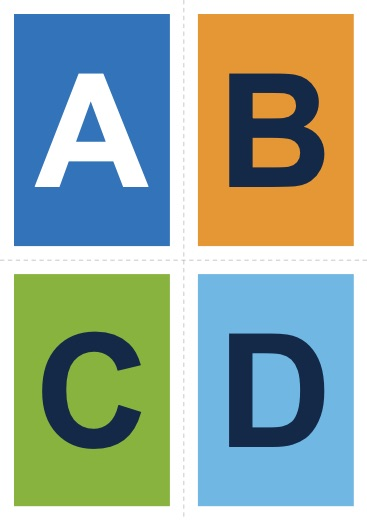
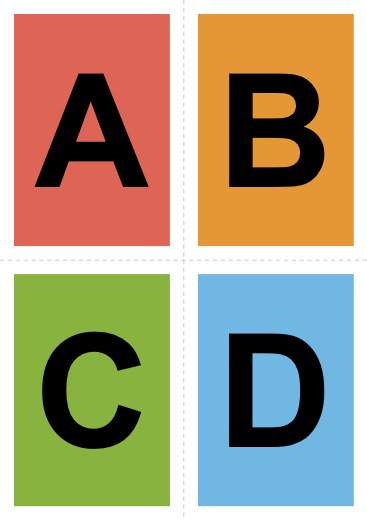
Antwortfarbe A jetzt rot statt blau, alle Buchstaben schwarz (App und PDF)

diff --git a/index.html b/index.html
@@ -59,6 +59,14 @@
       --gelb: #ffd200;
       --on-gelb: #0b2a4a;
 
+      /*
+       * Antwortfarben A bis D: A ist rot (nicht blau, damit es nicht
+       * mit den blauen Knöpfen verwechselt wird), die Buchstaben
+       * stehen immer in Schwarz.
+       */
+      --rot: #ef5b4f;
+      --buchstabe: #000000;
+
       --correct: #2f6d12;
       --correct-soft: #eaf5d8;
 
@@ -1285,29 +1293,29 @@
     #answerBoxA,
     #answerZoom[data-letter="A"],
     .answer-card-page:nth-child(1) {
-      --c: var(--blau);
-      --on: var(--on-blau);
+      --c: var(--rot);
+      --on: var(--buchstabe);
     }
 
     #answerBoxB,
     #answerZoom[data-letter="B"],
     .answer-card-page:nth-child(2) {
       --c: var(--orange);
-      --on: var(--on-orange);
+      --on: var(--buchstabe);
     }
 
     #answerBoxC,
     #answerZoom[data-letter="C"],
     .answer-card-page:nth-child(3) {
       --c: var(--gruen);
-      --on: var(--on-gruen);
+      --on: var(--buchstabe);
     }
 
     #answerBoxD,
     #answerZoom[data-letter="D"],
     .answer-card-page:nth-child(4) {
       --c: var(--hellblau);
-      --on: var(--on-hellblau);
+      --on: var(--buchstabe);
     }
 
     .quiz-answer {

diff --git a/sw.js b/sw.js
@@ -15,7 +15,7 @@
  * enthält deshalb den Ordner der App, und beim Aufräumen werden nur
  * die eigenen alten Fassungen gelöscht.
  */
-const CACHE_VERSION = "v23";
+const CACHE_VERSION = "v24";
 const CACHE_PREFIX =
   "4er-quiz:" + new URL(self.registration.scope).pathname + ":";
 const CACHE_NAME = CACHE_PREFIX + CACHE_VERSION;

diff --git a/vorlage/make_vorlage.py b/vorlage/make_vorlage.py
@@ -160,10 +160,10 @@ ABCD_COLORS = {"A": "#000", "B": "#000", "C": "#000", "D": "#000"}
 # Farbige Karten wie die Antwortkarte auf dem iPad (Olympia-Stil):
 # Farbe der Fläche und Farbe des Buchstabens.
 ABCD_FARBIG = {
-    "A": ("#0075bf", "#ffffff"),
-    "B": ("#f39200", "#0b2a4a"),
-    "C": ("#7ab51d", "#0b2a4a"),
-    "D": ("#56b9e8", "#0b2a4a"),
+    "A": ("#ef5b4f", "#000000"),
+    "B": ("#f39200", "#000000"),
+    "C": ("#7ab51d", "#000000"),
+    "D": ("#56b9e8", "#000000"),
 }
 
 
